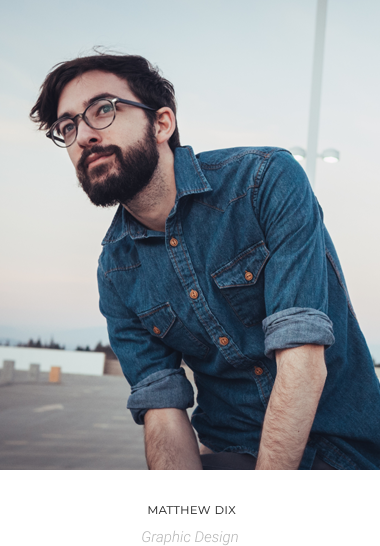
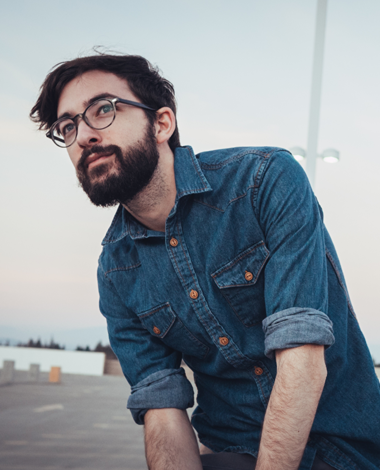
commit

diff --git a/css/style.css b/css/style.css
@@ -36,3 +36,38 @@ body {
 .team-item {
     padding-bottom: 80px;
 }
+
+header .container {
+    display: flex;
+    justify-content: space-between;
+}
+
+.header-list {
+    display: flex;
+    flex-direction: row;
+    gap: 10px;
+}
+
+.work-list {
+    display: flex;
+    flex-direction: row;
+    flex-wrap: wrap;
+}
+
+
+.team-img {
+    width: 380px;
+    height: 470px;
+}
+
+.team-list {
+    display: flex;
+    flex-direction: row;
+    gap: 30px;
+}
+
+footer div {
+    display: flex;
+    flex-direction: row;
+    justify-content: space-between;
+}
